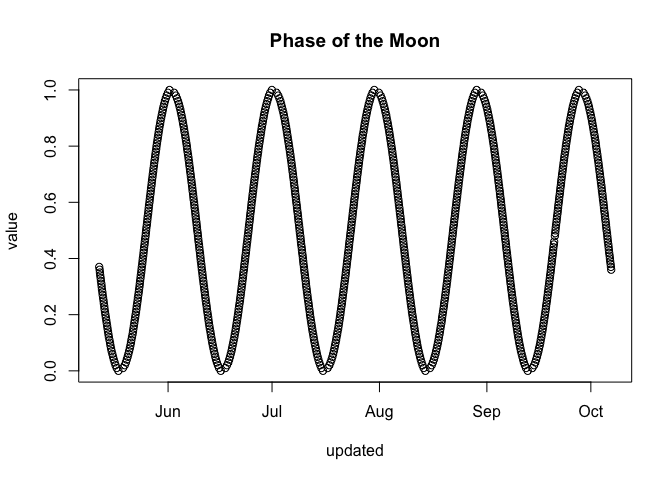
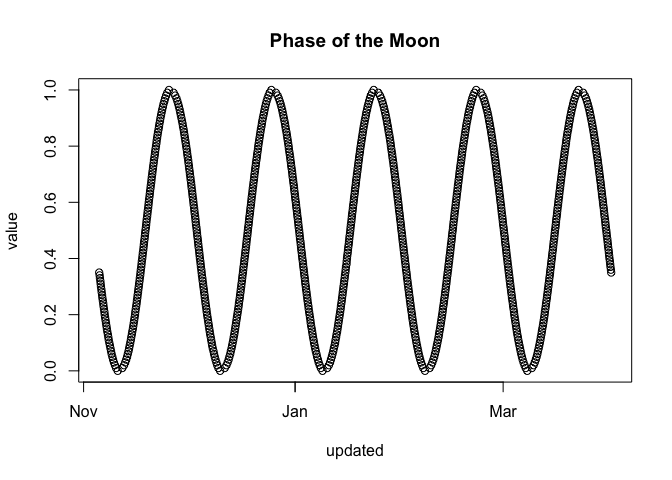
Shutting down project

diff --git a/README.md b/README.md
@@ -1,7 +1,15 @@
 numerous
 ========
 
+[![Project Status: Abandoned - Initial development has started, but
+there has not yet been a stable, usable release; the project has been
+abandoned and the author(s) do not intend on continuing
+development.](http://www.repostatus.org/badges/latest/abandoned.svg)](http://www.repostatus.org/#abandoned)
 [![CRAN\_Status\_Badge](http://www.r-pkg.org/badges/version/numerous)](http://cran.r-project.org/package=numerous)
+
+**Note: Numerous is [shutting
+down](http://blog.numerousapp.com/2016/02/02/numerous-shutting-down-on-may-1.html),
+so this package is no longer being developed.**
 
 [Numerous](http://numerousapp.com) is a service for sharing and
 following numbers such as stock prices, temperatures, the number of
@@ -97,7 +105,7 @@ values. For example, we can get the metric's *label* and its current
 
     pop_metric[[1]]$value
 
-    ## [1] 0.36
+    ## [1] 0.35
 
 So this metric is called *Phase of the Moon*, and its current value is
 0.36.
@@ -124,7 +132,7 @@ Our new Fun-O-Meter metric is now ready to go. If you take a look at
     funometer
 
     ## $id
-    ## [1] "7940323980985427280"
+    ## [1] "3846971252853556510"
     ## 
     ## $ownerId
     ## [1] "4066136855367984353"
@@ -133,7 +141,7 @@ Our new Fun-O-Meter metric is now ready to go. If you take a look at
     ## [1] FALSE
     ## 
     ## $updated
-    ## [1] "2015-10-06T22:43:13.362Z"
+    ## [1] "2016-04-01T04:10:54.782Z"
     ## 
     ## $latestEventUpdated
     ## [1] ""
@@ -176,13 +184,13 @@ Our new Fun-O-Meter metric is now ready to go. If you take a look at
     ## 
     ## $links
     ## $links$self
-    ## [1] "https://api.numerousapp.com/v2/metrics/7940323980985427280"
+    ## [1] "https://api.numerousapp.com/v2/metrics/3846971252853556510"
     ## 
     ## $links$web
-    ## [1] "http://n.numerousapp.com/m/1obrlxrb8w500"
+    ## [1] "https://nmrs.co/m/t86thw26oj6m"
     ## 
     ## $links$embed
-    ## [1] "http://n.numerousapp.com/e/1obrlxrb8w500"
+    ## [1] "https://nmrs.co/e/t86thw26oj6m"
     ## 
     ## 
     ## attr(,"class")
@@ -243,7 +251,8 @@ data frame.
     moon_events <- get_events(metric_id = moonphase$id, df = TRUE)
     ggplot(data = moon_events, aes(x=updated, y=value)) +
         geom_line() +
-        scale_x_datetime(breaks = date_breaks("1 month"), minor_breaks = date_breaks("1 week")) +
+        scale_x_datetime(breaks = date_breaks("1 month"),
+                         minor_breaks = date_breaks("1 week")) +
         labs(title=moonphase$label)
 
 ![](figures/Plotting%20with%20ggplot-1.png)
